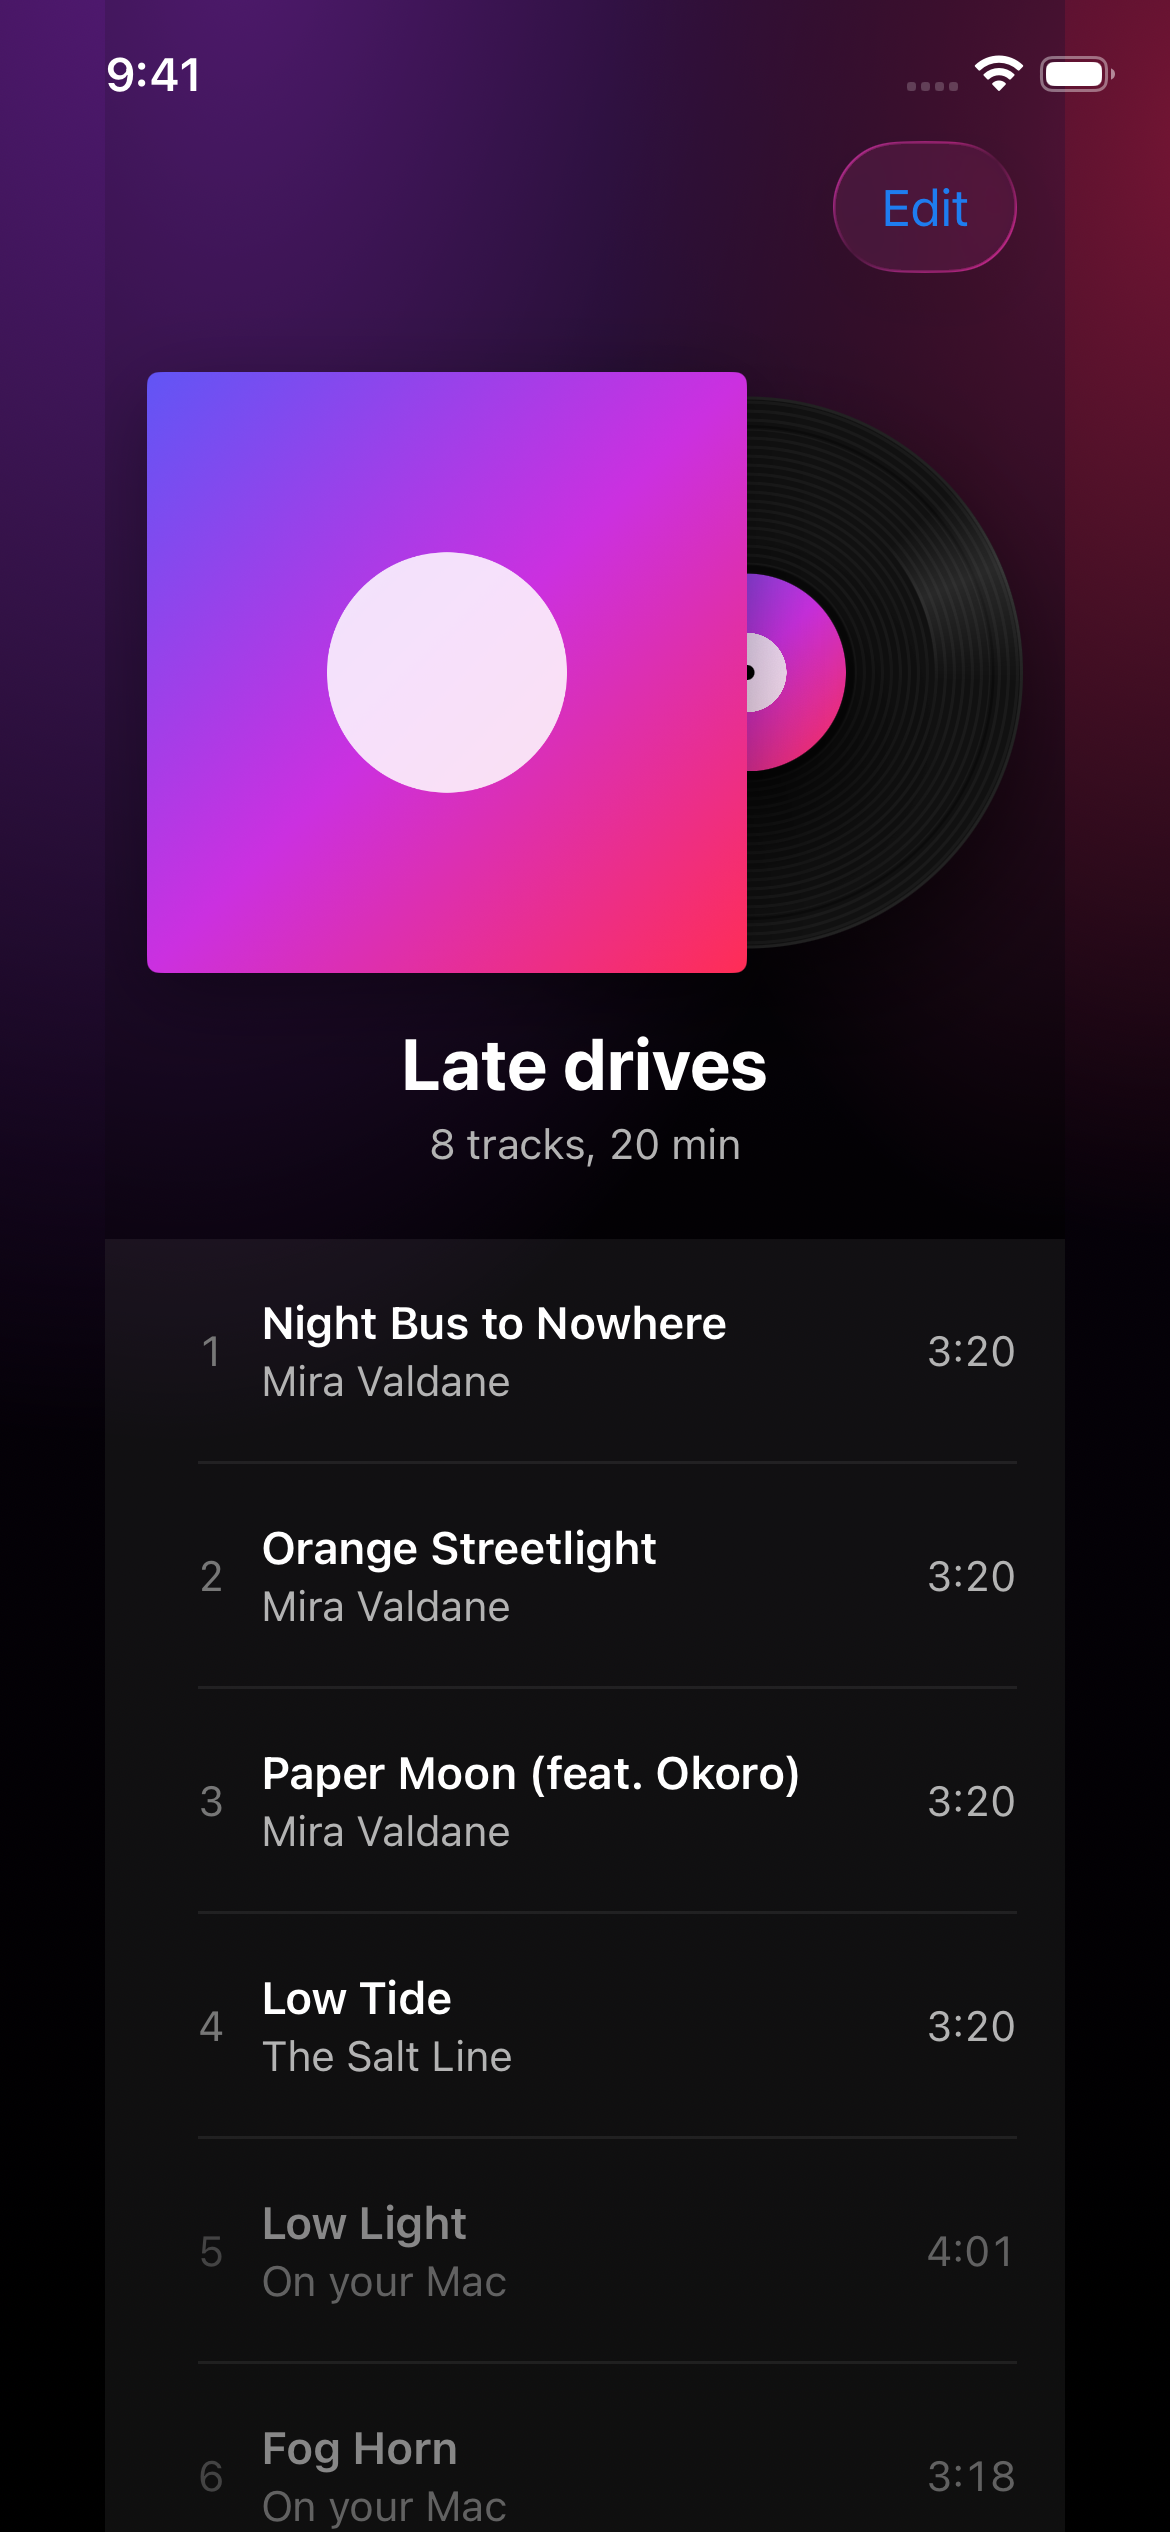
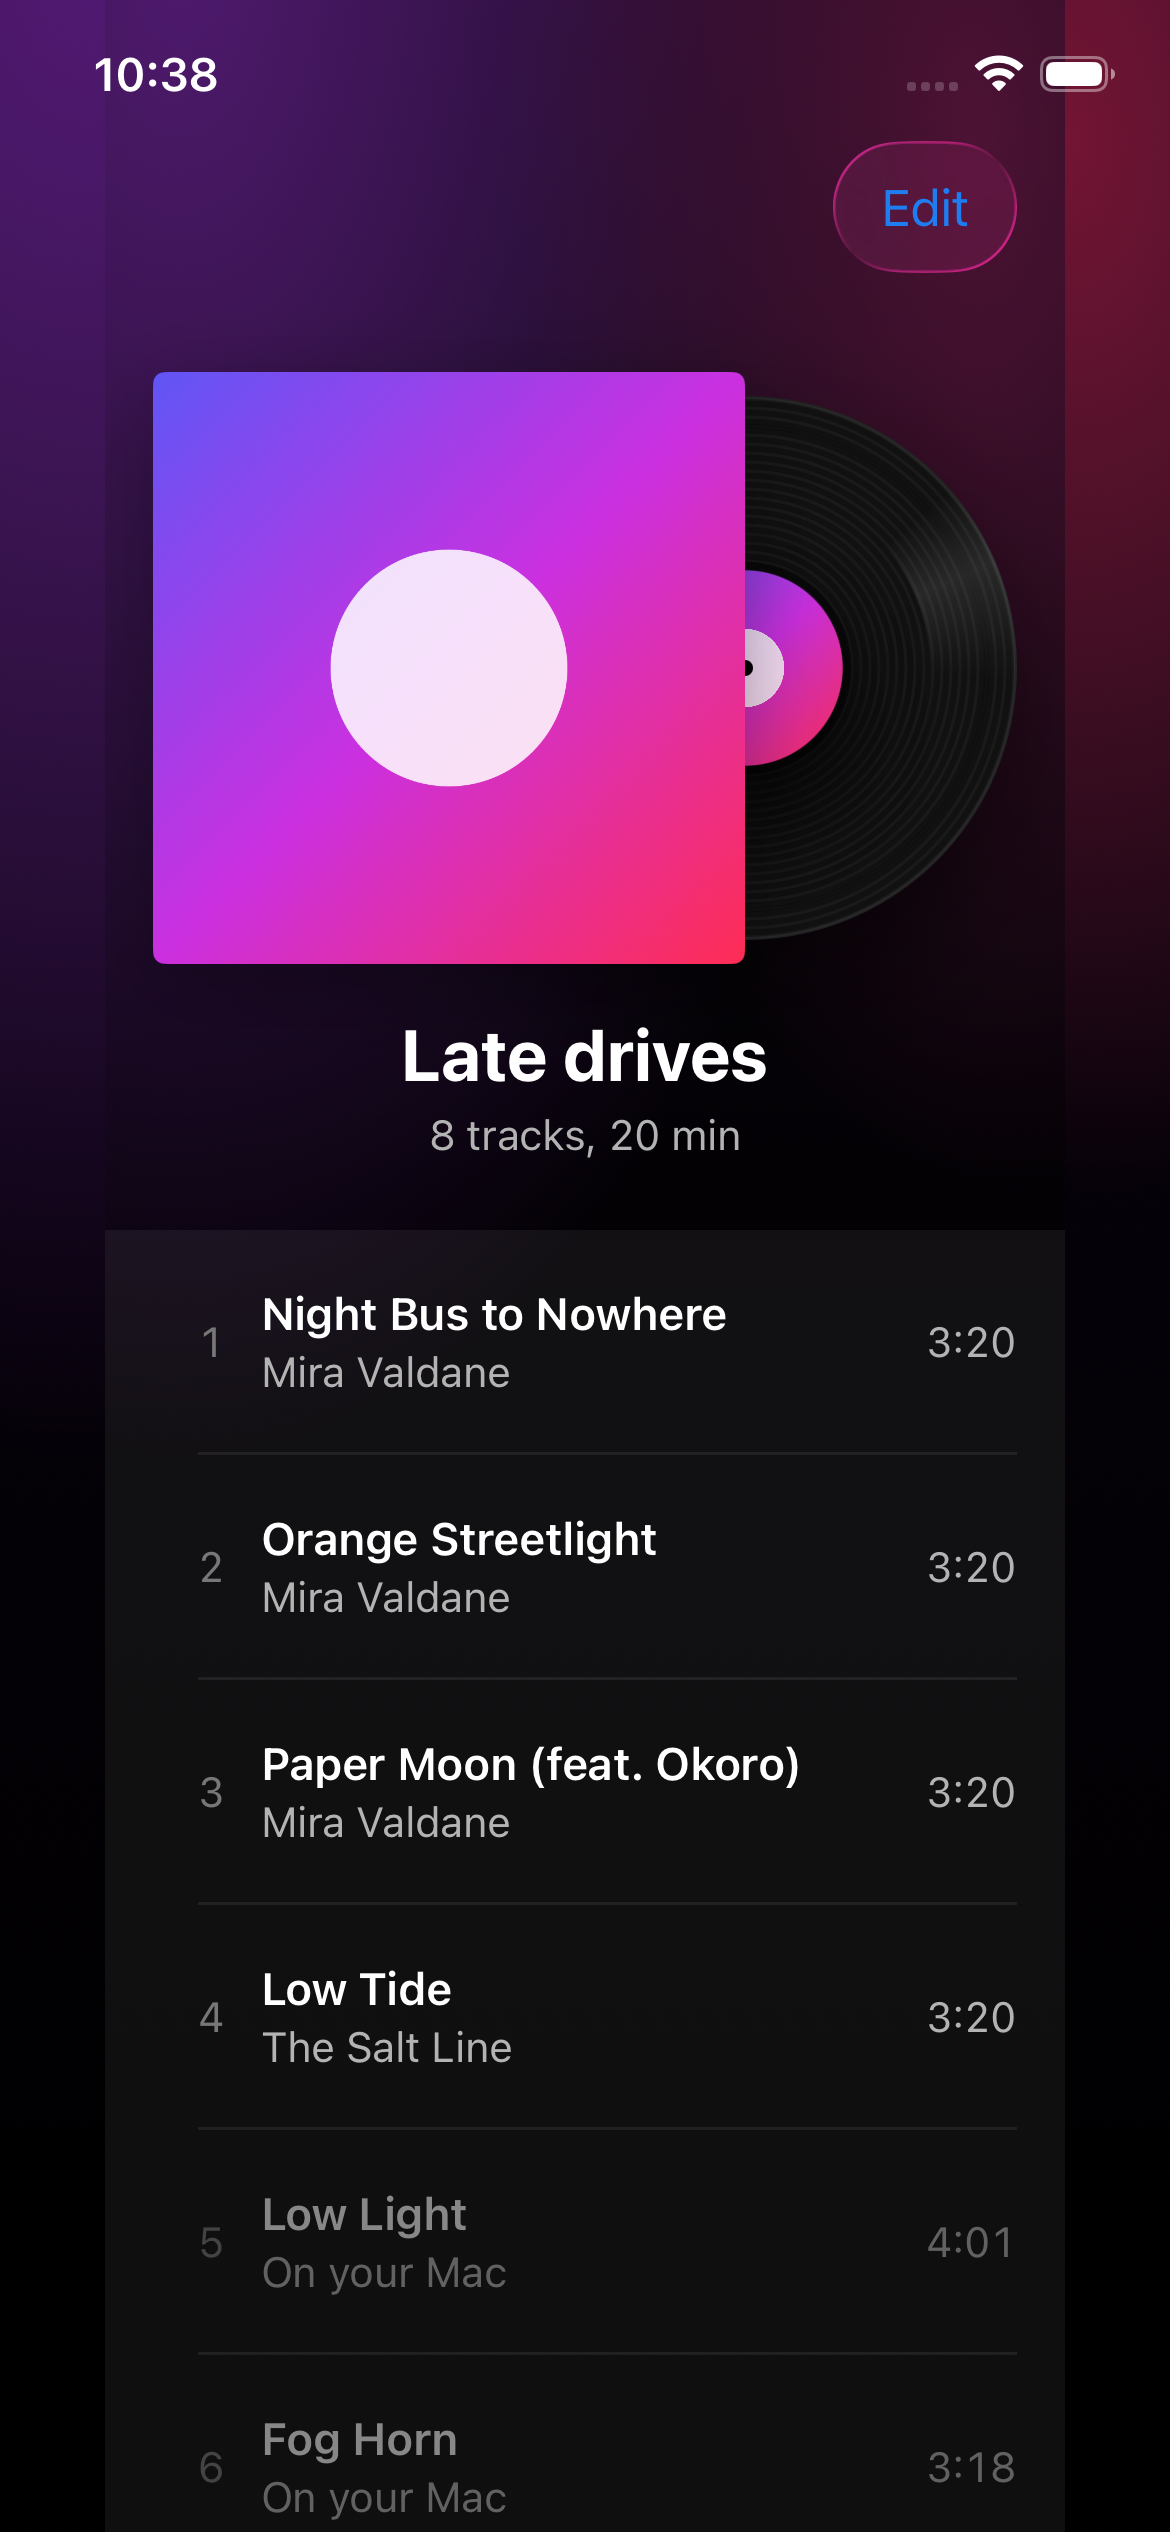
Collection sleeve: measure the offered width so it shrinks in a narrow list (#369)
Claude-Session: https://claude.ai/code/session_01NeXGzQ5gYG6DzPD3bPBBBq

diff --git a/apps/ios/Locally/Views/Collections/CollectionSleeveView.swift b/apps/ios/Locally/Views/Collections/CollectionSleeveView.swift
@@ -38,7 +38,8 @@ struct CollectionSleeveView: View {
     var body: some View {
         if side >= Theme.Immersive.sleeveSizeCompact {
             content(side: Self.fittedSide(side, availableWidth: availableWidth))
-                .frame(maxWidth: .infinity)
+                // Report the offered width, not the child's, so a narrow row shrinks the sleeve.
+                .frame(minWidth: 0, maxWidth: .infinity)
                 .onGeometryChange(for: CGFloat.self) { $0.size.width } action: { availableWidth = $0 }
         } else {
             content(side: side)
